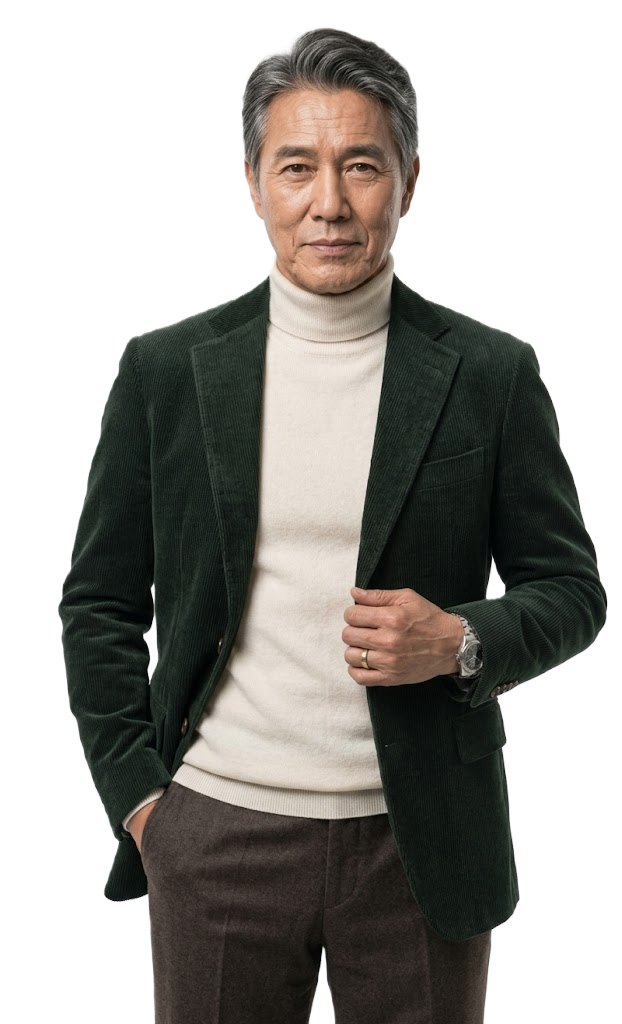
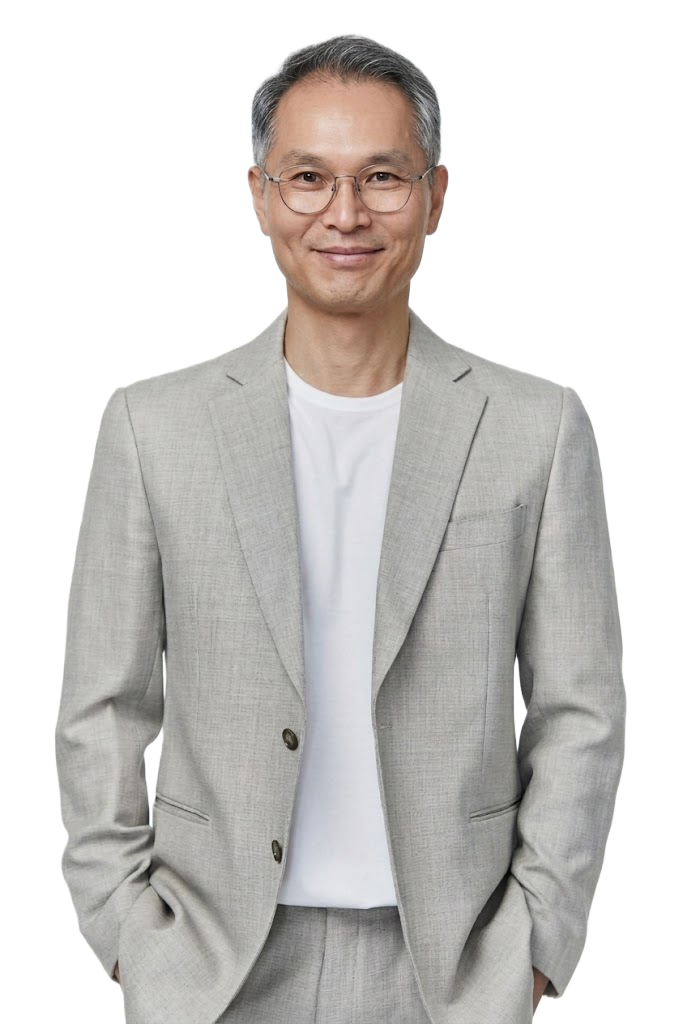
style: optimize careers-jobs page for mobile and push profile image changes

diff --git a/careers-jobs.html b/careers-jobs.html
@@ -168,6 +168,92 @@
         .job-grid { grid-template-columns: 1fr 1fr; }
         .hero-section { padding-top: 140px; }
       }
+
+      /* Global overrides for Mobile Menu on Sub-pages (White Background Fixes) */
+      body.sub-page:not(.force-dark) #header .mobile-toggle:not(.active) span,
+      body.sub-page:not(.force-dark) #header.scrolled .mobile-toggle:not(.active) span { 
+          background: #0f172a !important; 
+      }
+      body.sub-page:not(.force-dark) #header .mobile-toggle.active span,
+      body.sub-page:not(.force-dark) #header.scrolled .mobile-toggle.active span { 
+          background: #ffffff !important; 
+      }
+      body.sub-page #header .nav-right.active,
+      body.sub-page #header .nav-right.active * {
+          --text-primary: #ffffff !important;
+          --text-muted: rgba(255, 255, 255, 0.8) !important;
+          --text-inverse-primary: #ffffff !important;
+      }
+      body.sub-page #header .nav-right.active span,
+      body.sub-page #header .nav-right.active a {
+          color: #ffffff !important;
+      }
+      body.sub-page #header .nav-right.active .mega-right a {
+          color: rgba(255, 255, 255, 0.8) !important;
+      }
+      body.sub-page #header .nav-right.active .mega-right a.active {
+          color: #ffffff !important;
+      }
+
+      /* Natural Transitions (Smooth like Business Pages) */
+      #header {
+        transition: background-color 0.4s cubic-bezier(0.4, 0, 0.2, 1), 
+                    border-color 0.4s cubic-bezier(0.4, 0, 0.2, 1), 
+                    box-shadow 0.4s cubic-bezier(0.4, 0, 0.2, 1) !important;
+      }
+      #header .nav-links a, 
+      #header .nav-item > span, 
+      #header .logo-text,
+      #header .cta-button,
+      #header .logo img {
+        transition: all 0.4s cubic-bezier(0.4, 0, 0.2, 1) !important;
+      }
+
+      @media (max-width: 768px) {
+        main { padding-top: 0px !important; }
+        body.sub-page .hero-section {
+          padding-top: 90px !important;
+          padding-bottom: 2rem !important;
+        }
+        .hero-section .container {
+          padding-left: 1.5rem !important;
+          padding-right: 1.5rem !important;
+        }
+        .lab-title {
+          font-size: 1.85rem !important;
+          line-height: 1.35 !important;
+          margin-bottom: 1.5rem !important;
+        }
+        .lab-sub {
+          font-size: 1.05rem !important;
+          line-height: 1.6 !important;
+        }
+        .section-container {
+          padding: 0 0 4rem !important;
+        }
+        .section-container .container {
+          padding-left: 1.5rem !important;
+          padding-right: 1.5rem !important;
+        }
+        .job-grid {
+          grid-template-columns: 1fr !important;
+          gap: 1.5rem !important;
+        }
+        .job-card {
+          padding: 2rem 1.5rem !important;
+          border-radius: 20px !important;
+        }
+        .job-card h4 {
+          font-size: 1.25rem !important;
+        }
+        .job-card p {
+          font-size: 0.95rem !important;
+          line-height: 1.5 !important;
+        }
+        .job-card p span {
+          font-size: 0.8rem !important;
+        }
+      }
     </style>
   </head>
   <body class="sub-page">
@@ -179,6 +265,13 @@
             <img src="/ci_03.png" alt="DAUMIS" class="logo-dark">
             <span class="logo-text">다음정보시스템즈</span>
           </a>
+          
+          <button class="mobile-toggle" aria-label="메뉴 열기">
+            <span></span>
+            <span></span>
+            <span></span>
+          </button>
+          
           <div class="nav-right">
             <ul class="nav-links">
               <li class="nav-item">